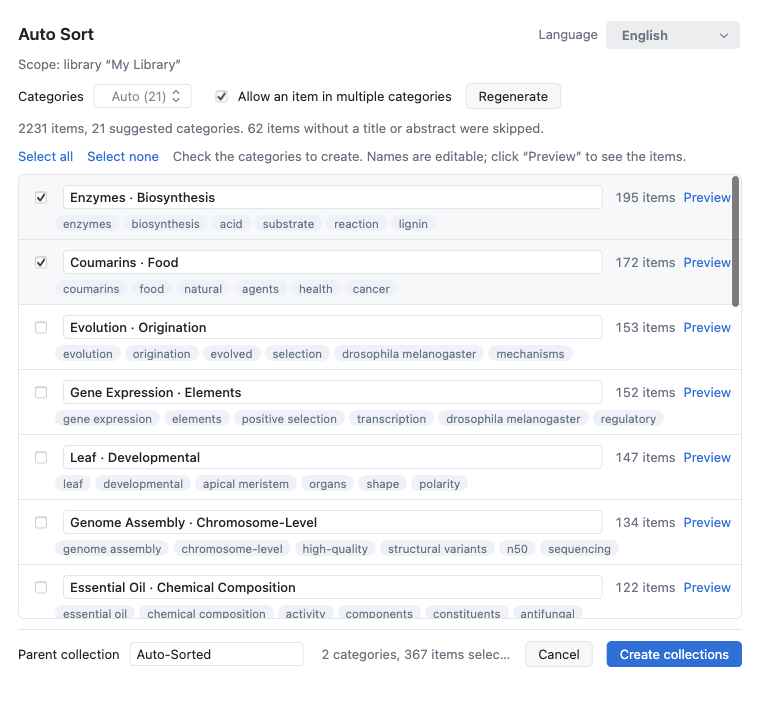
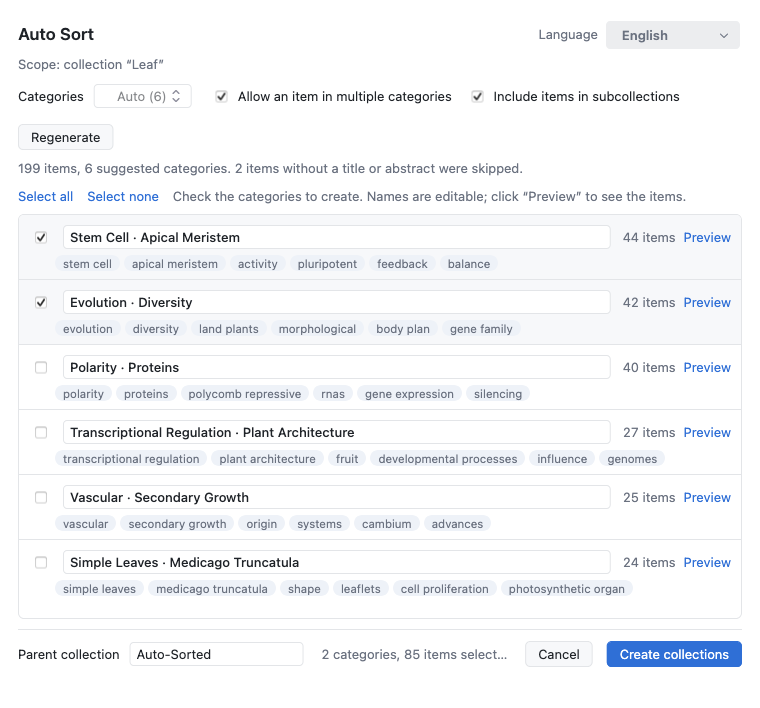
用 Leaf 分类重拍截图，改进分类命名
Retake screenshots on the Leaf collection; improve category names

- README 截图改为扫描 Leaf 分类的结果（199 篇，6 个候选分类）
  README screenshots now show a scan of the Leaf collection (199 items,
  6 suggested categories)
- 命名改进：过滤学术套话（underlying、current knowledge、give rise 等）和 -ly 副词；
  两个单词标签能组成已知词组时合并（如 Genome + Assembly → Genome Assembly）
  Better names: filter boilerplate ("underlying", "current knowledge",
  "give rise", ...) and -ly adverbs; merge two single-word labels that form a
  known phrase (e.g. Genome + Assembly → Genome Assembly)
- 自检新增 AUTOSORT_SELFTEST_COLLECTION，可指定扫描某个分类
  Self-test accepts AUTOSORT_SELFTEST_COLLECTION to scan one collection

diff --git a/addon/content/classifier.js b/addon/content/classifier.js
@@ -27,7 +27,7 @@ var AutoSortClassifier = (function () {
     "reveal revealed reveals role second showed shown shows significant significantly similar specific studied studies " +
     "study suggest suggested suggests type types understanding work year years total compared comparison approximately " +
     "among however important elsevier springer wiley copyright rights reserved author authors published journal pdf " +
-    "doi http https www com org vol issue pp sciencedirect pubmed online library researchgate properties challenges science web characterization functional integrate automated taxonomically"
+    "doi http https www com org vol issue pp sciencedirect pubmed online library researchgate properties challenges science web characterization functional integrate automated taxonomically underlying current knowledge give rise called discuss discussed encode encodes encoded mechanism mechanisms insight insights role roles across involved means"
   ).split(/\s+/));
 
   const CJK_STOP = new Set(("研究 分析 基于 方法 及其 进展 影响 应用 探讨 结果 表明 一种 我们 本文 通过 进行 利用 " +
@@ -167,7 +167,7 @@ var AutoSortClassifier = (function () {
       for (const [s, c] of m) if (c > n) { best = s; n = c; }
       return best;
     });
-    return { vectors, vocabList, surface, df: vocabList.map((t) => df.get(t)) };
+    return { vectors, vocabList, vocab, surface, df: vocabList.map((t) => df.get(t)) };
   }
 
   function dot(v, centroid) {
@@ -246,11 +246,22 @@ var AutoSortClassifier = (function () {
     const picked = [];
     for (const s of scored) {
       const term = vz.vocabList[s.t].replace(/^tag:/, "");
+      if (/^[a-z]{4,}ly$/.test(term)) continue;  // adverbs ("functionally") make poor labels
       const name = vz.surface[s.t];
       // Skip terms already covered by a picked label (e.g. "genome" after "genome assembly").
       if (picked.some((p) => overlaps(p.term, term))) continue;
       picked.push({ term, name, coverage: s.pIn });
       if (picked.length >= 6) break;
+    }
+    // Two single words that form a known phrase ("genome" + "assembly") become that phrase.
+    if (picked.length >= 2 && !/[ ]/.test(picked[0].term + picked[1].term)) {
+      for (const phrase of [picked[0].term + " " + picked[1].term, picked[1].term + " " + picked[0].term]) {
+        const idx = vz.vocab.get(phrase);
+        if (idx !== undefined) {
+          picked.splice(0, 2, { term: phrase, name: vz.surface[idx], coverage: picked[0].coverage });
+          break;
+        }
+      }
     }
     return picked;
   }

diff --git a/addon/content/autosort.js b/addon/content/autosort.js
@@ -268,7 +268,13 @@ var AutoSort = {
         const blob = await new Promise((res) => canvas.toBlob(res, "image/png"));
         await IOUtils.write(shot.replace(/\.png$/, "-toolbar.png"), new Uint8Array(await blob.arrayBuffer()));
       }
-      const dlg = this.open(win, { libraryID, collection: null });
+      // AUTOSORT_SELFTEST_COLLECTION=<name> points the dialog at one collection instead of the whole library.
+      const collName = Services.env.get("AUTOSORT_SELFTEST_COLLECTION");
+      const collection = collName
+        ? Zotero.Collections.getByLibrary(libraryID, true).find((c) => c.name === collName) || null
+        : null;
+      if (collName) this.log(`SELFTEST collection "${collName}": ${collection ? "found" : "NOT FOUND"}`);
+      const dlg = this.open(win, { libraryID, collection });
       dlg.addEventListener("load", async () => {
         this.log("SELFTEST dialog loaded");
         const doc = dlg.document;
